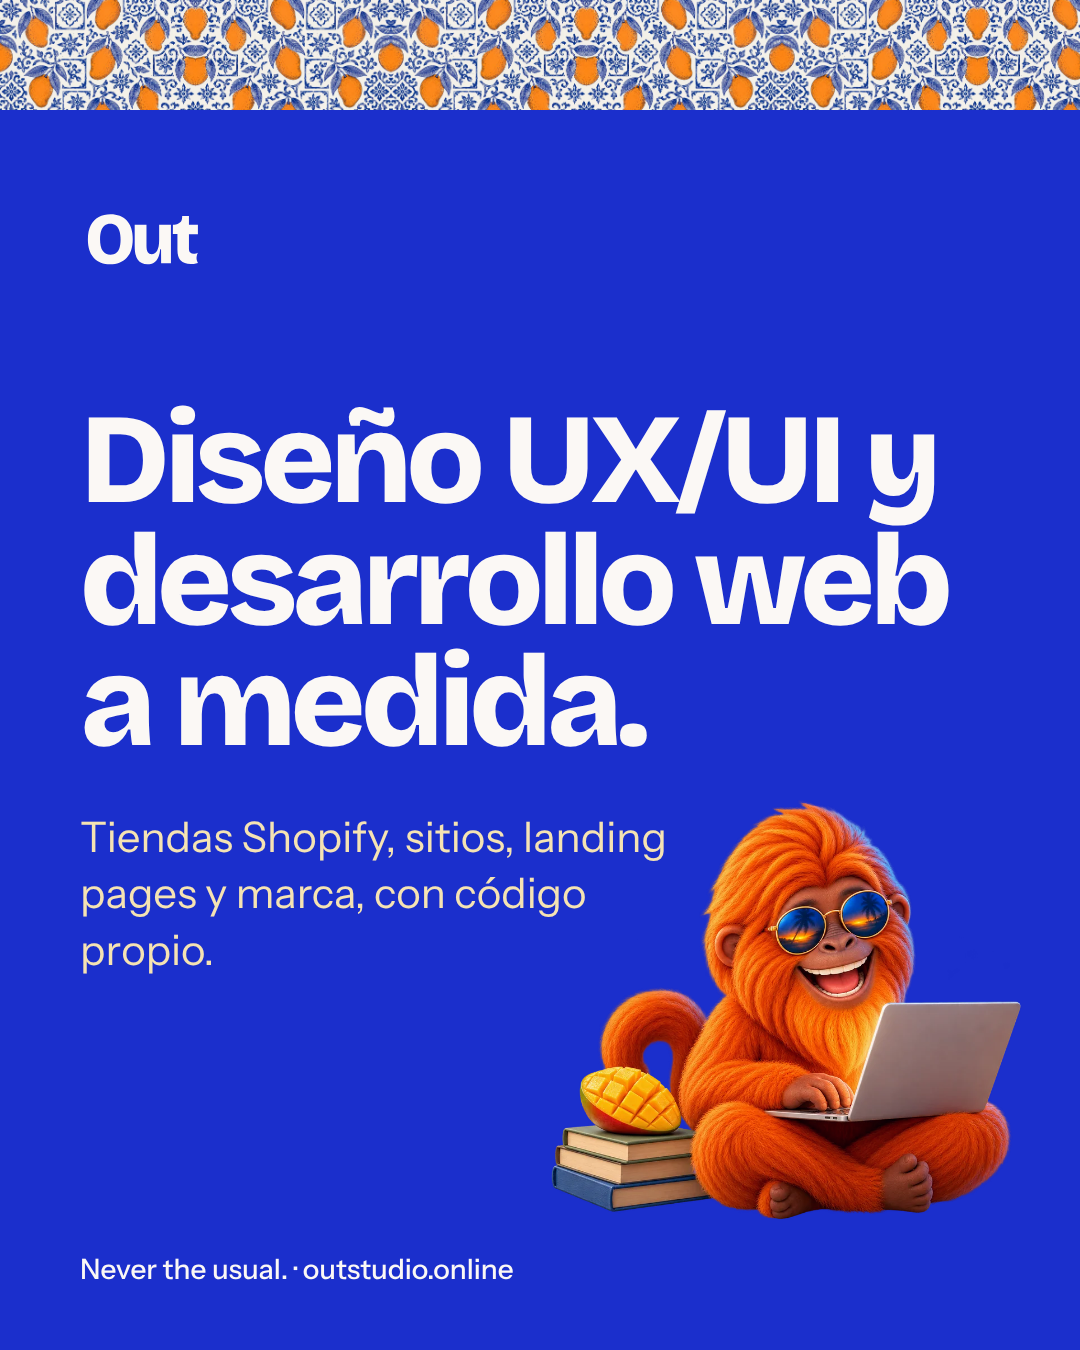
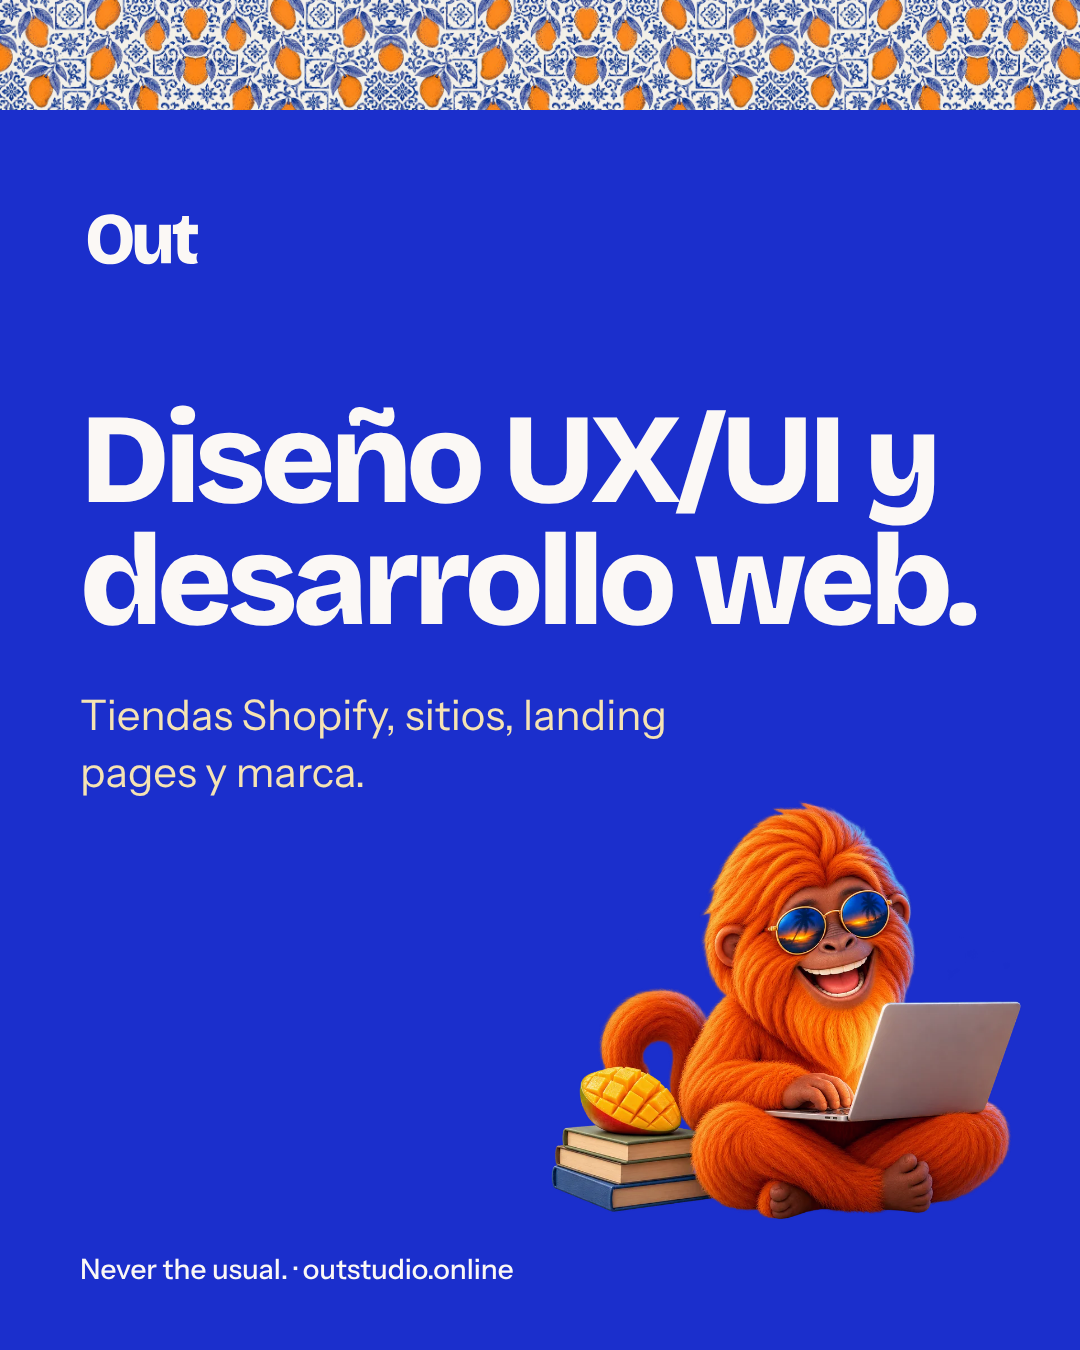
Instagram: quita 'a medida' y 'con código propio' de la publicación de presentación
Claude-Session: https://claude.ai/code/session_01BzT1ouPAUQAyY91NofEXdp

Changed region(s): [[0.0611, 0.4667, 0.6111, 0.7156], [0.8861, 0.4356, 0.9167, 0.4667]]

diff --git a/instagram/perfil/perfil.md b/instagram/perfil/perfil.md
@@ -88,7 +88,7 @@ Imagen: `publicacion-presentacion.png` (1080 × 1350).
 
 **Hashtags:** #OutStudio #DiseñoWeb #DesarrolloWeb #UXUI #TiendaOnline #Shopify #Emprendimiento #Colombia
 
-**Texto alternativo:** Mango, el mono de gafas de Out Studio, trabajando en un portátil junto al texto "Diseño UX/UI y desarrollo web a medida".
+**Texto alternativo:** Mango, el mono de gafas de Out Studio, trabajando en un portátil junto al texto "Diseño UX/UI y desarrollo web".
 
 Después de fijarla, publica la de Mango (`lote-2/mango-publicacion.png`) y los lotes
 según su calendario.
